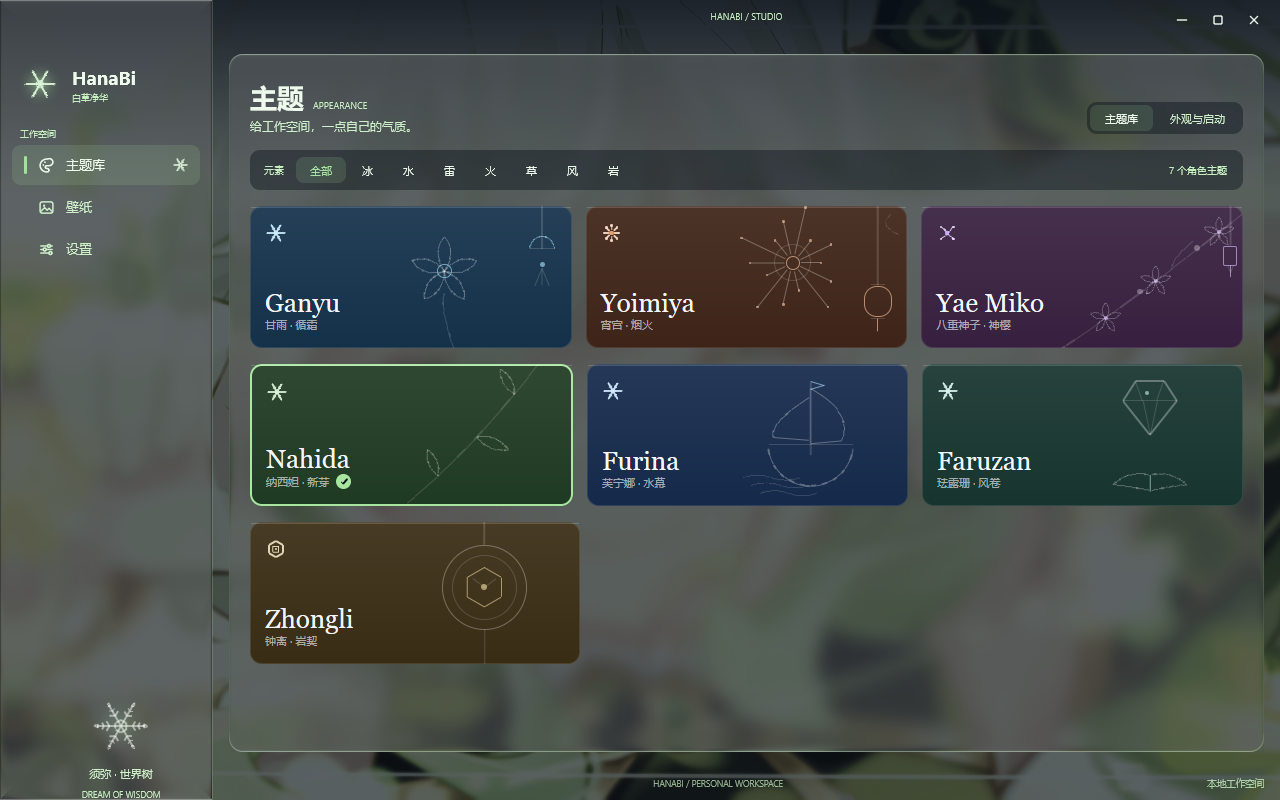
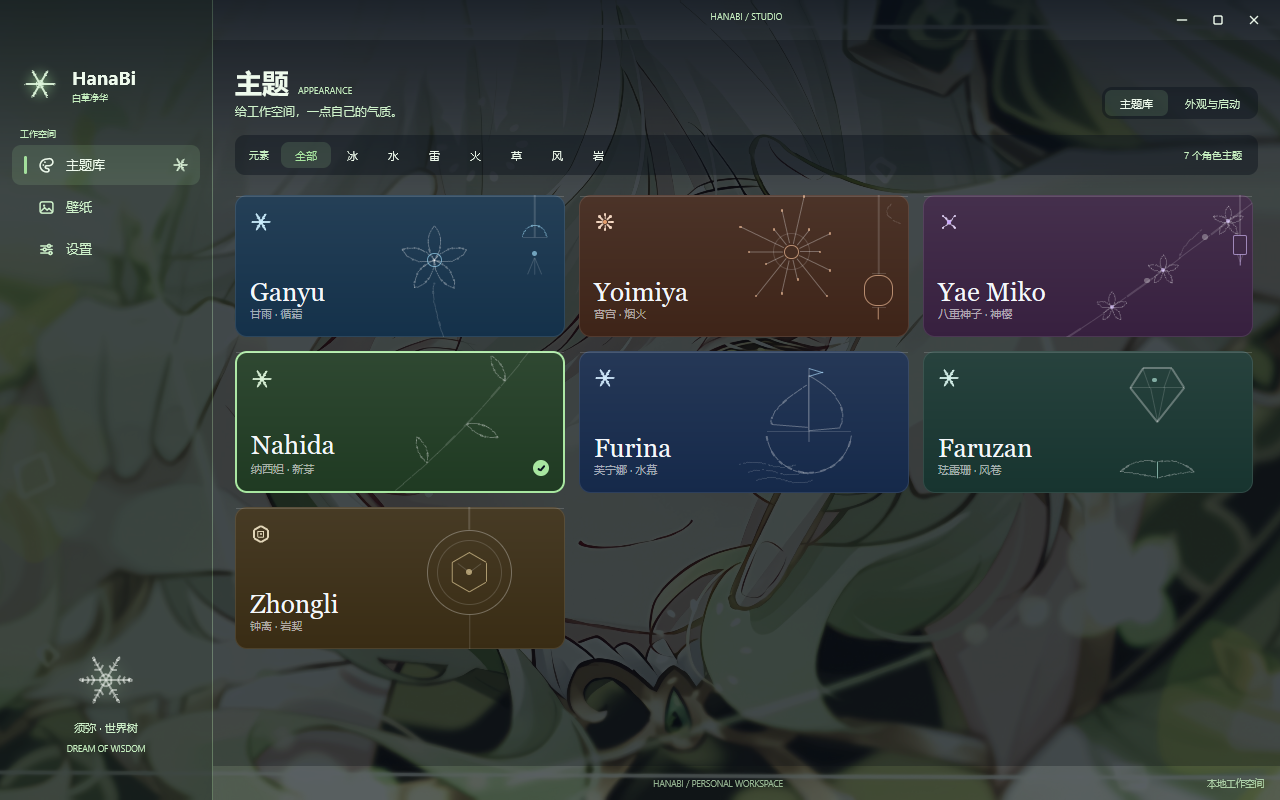
甘雨主题第四轮（对照参考图像素级校准）：
1. 侧栏底部：Padding 槽位写错（46 在「左」不在「下」），文字贴底且右偏 14px；
   用像素扫描测出真实位置后修正（距底 49px、中心 105/106）。
2. 选中卡片对勾徽章贴卡片最右缘（文字 Grow(1) 顶开）。
3. 主题页只有卡片滚动：标题区与元素筛选条固定，Scroll 只包卡片网格。
4. 去掉内容区整体玻璃面板，恢复轻暗罩（内容直接浮在壁纸上）。
5. 侧栏去掉 glass 材质（其边缘高光造成上下白边），改为令牌色半透明纯底。

diff --git a/internal/view/app.go b/internal/view/app.go
@@ -5,7 +5,6 @@ import (
 	"time"
 
 	"github.com/egoist/mygo"
-	"github.com/egoist/mygo/plugins/glass"
 	"github.com/egoist/mygo/ui"
 
 	"bestuav-hanabi/internal/assets"
@@ -158,10 +157,9 @@ func (a *App) elementMarkSoft(c *ui.Context, size float32) {
 
 // sidebar 左侧栏：品牌（元素标识 + 名称）→ 分组标签 → 菜单 → 底部当前角色。
 func (a *App) sidebar(c *ui.Context) {
-	col := ui.Column(c).Width(212)
-	// Regular 在暗模式下会压暗底下的壁纸；Clear 太透，亮壁纸（钟离、纳西妲）
-	// 上菜单文字会糊。Clarity 0.15 保留一点通透，但足够托住文字。
-	col.Material(glass.Glass{Style: glass.Regular, Clarity: 0.15})
+	// 不用 glass 材质：它会画边缘高光，侧栏上下看起来像有白色边框。
+	// 参考图就是一块纯净的半透明深色，直接用令牌色铺底。
+	col := ui.Column(c).Width(212).Background(a.tok.Sidebar)
 	col.Children(func() {
 		// 品牌区不贴顶：参考图里图标顶部约占窗口高 8.5%，按 800 高折算约 64px。
 		ui.Row(c).Padding(64, 12, 10, 20).Gap(12).AlignItems(ui.Center).Children(func() {
@@ -186,7 +184,7 @@ func (a *App) sidebar(c *ui.Context) {
 
 		// 底部：一枚较大的淡色元素标识 + 场景名，整体居中；下缘距窗口底约 6%
 		// （参考图量出来的比例），所以底部留白比菜单侧的 padding 大。
-		ui.Column(c).AlignItems(ui.Center).Gap(8).Padding(0, 16, 0, 46).Children(func() {
+		ui.Column(c).AlignItems(ui.Center).Gap(8).Padding(0, 16, 46, 16).Children(func() {
 			a.elementMarkSoft(c, 64)
 			ui.Text(c, a.char.Scene).FontSize(11).TextColor(a.tok.TextMuted)
 			ui.Text(c, a.char.SceneEN).FontSize(8.5).TextColor(a.tok.TextFaint)
@@ -281,29 +279,25 @@ func (a *App) winButton(c *ui.Context, icon *ui.SVG, tip string, action func()) 
 	})
 }
 
-// content 内容区：一块圆角玻璃面板浮在壁纸上，四周留出壁纸的边缘。
+// content 内容区：按当前页分发。
 //
-// 之前是整片内容区直接压一层暗色——壁纸从头露到尾，标题和筛选条都泡在
-// 图片里。改成面板后壁纸只在四周和缝隙里透出，文字全部落在面板上。
-// 内容套在 Scroll 里：主题超出可视高度时纵向滚动（状态栏才不会被顶出窗口）。
+// 只压一层很淡的暗色托文字，不再包整块面板——参考图里内容是直接浮在
+// 壁纸上的，只有卡片本身是一块块玻璃。
 func (a *App) content(c *ui.Context) {
-	ui.Column(c).Grow(1).Padding(14, 16, 14, 16).Children(func() {
-		ui.Column(c).Grow(1).Radius(14).
-			Material(glass.Glass{Style: glass.Regular, Clarity: 0.12}).
-			Border(1, a.tok.CardStroke).
-			Children(func() {
-				ui.Scroll(c).Grow(1).Children(func() {
-					ui.Column(c).Padding(24, 20).Gap(16).Children(func() {
-						switch a.page {
-						case "library":
-							a.libraryPage(c)
-						default:
-							a.placeholderPage(c)
-						}
-					})
-				})
+	ui.Column(c).Grow(1).Clip().
+		Draw(func(p *ui.Painter, r ui.Rect) {
+			p.Fill(r, ui.RGBA(6, 11, 18, 0.28), 0)
+		}).
+		Children(func() {
+			ui.Column(c).Padding(24, 22).Gap(16).Children(func() {
+				switch a.page {
+				case "library":
+					a.libraryPage(c)
+				default:
+					a.placeholderPage(c)
+				}
 			})
-	})
+		})
 }
 
 // statusbar 内容区底部：中间一行品牌小字，右侧是工作空间状态。

diff --git a/internal/view/library.go b/internal/view/library.go
@@ -12,6 +12,7 @@ import (
 //
 // 页面里没有任何角色名或颜色常量——全部来自 theme.All()。
 func (a *App) libraryPage(c *ui.Context) {
+	// 标题与筛选条固定不动，只有下面的卡片滚动（参考图行为）。
 	a.pageHeader(c)
 	a.elementFilter(c)
 
@@ -23,14 +24,18 @@ func (a *App) libraryPage(c *ui.Context) {
 		}
 	}
 
-	const cols = 3
-	for i := 0; i < len(shown); i += cols {
-		ui.Row(c).Gap(14).AlignItems(ui.Start).Children(func() {
-			for j := i; j < i+cols && j < len(shown); j++ {
-				a.characterCard(c, shown[j])
+	ui.Scroll(c).Grow(1).Children(func() {
+		ui.Column(c).Padding(4, 0, 10, 0).Gap(14).Children(func() {
+			const cols = 3
+			for i := 0; i < len(shown); i += cols {
+				ui.Row(c).Gap(14).AlignItems(ui.Start).Children(func() {
+					for j := i; j < i+cols && j < len(shown); j++ {
+						a.characterCard(c, shown[j])
+					}
+				})
 			}
 		})
-	}
+	})
 }
 
 // pageHeader 标题行：大标题 + 英文小标 + 副标题，右上角是分段控件。
@@ -169,16 +174,16 @@ func (a *App) characterCard(c *ui.Context, ch theme.Character) {
 		ui.Text(c, ch.NameEN).FontSize(26).
 			Font("Georgia, Cambria, 'Times New Roman', serif").
 			TextColor(ui.Hex("#F4F7FA"))
+		// 对勾徽章贴卡片最右边（参考图位置）：文字 Grow(1) 顶开。
 		ui.Row(c).AlignItems(ui.Center).Gap(7).Children(func() {
 			ui.Text(c, ch.NameCN+" · "+ch.Epithet).FontSize(11).
-				TextColor(ui.RGBA(255, 255, 255, 0.60))
-			// 选中卡的右下角对勾徽章（参考图里也有）：元素色圆 + 深色勾。
+				TextColor(ui.RGBA(255, 255, 255, 0.60)).Grow(1)
 			if active {
-				ui.Row(c).Width(15).Height(15).Draw(func(p *ui.Painter, r ui.Rect) {
+				ui.Row(c).Width(16).Height(16).Draw(func(p *ui.Painter, r ui.Rect) {
 					cx, cy := r.X+r.W/2, r.Y+r.H/2
 					circle(p, cx, cy, r.W/2, ch.Tok.Accent)
-					seg(p, cx-3.2, cy+0.2, cx-0.9, cy+2.6, 1.5, ui.Hex("#0A1420"))
-					seg(p, cx-0.9, cy+2.6, cx+3.4, cy-2.4, 1.5, ui.Hex("#0A1420"))
+					seg(p, cx-3.4, cy+0.2, cx-1.0, cy+2.8, 1.6, ui.Hex("#0A1420"))
+					seg(p, cx-1.0, cy+2.8, cx+3.6, cy-2.6, 1.6, ui.Hex("#0A1420"))
 				})
 			}
 		})

diff --git a/README.md b/README.md
@@ -12,7 +12,7 @@
 - **侧栏三段式**：品牌（元素标识 + HanaBi）/ 分组标签 + 菜单（图标 + 文字 + 选中项右侧的元素小图标）/
   底部当前角色大标识 + 名字。品牌图标的位置正是开场标识的停靠点，交接时不跳变
 - **主题页**：大标题 + `APPEARANCE` 小标 + 副标题，右上分段控件，下方元素筛选条
-  （全部 / 冰 / 水 / 雷 / 火 / 草 / 风 / 岩 + 角色数），内容区可纵向滚动；
+  （全部 / 冰 / 水 / 雷 / 火 / 草 / 风 / 岩 + 角色数）；**只有卡片滚动**，标题与筛选条固定；
   卡片为**纯色底 + 右侧专属线稿**（花/樱枝/烟花/叶枝/帆船/棱晶/岩环，见 `internal/view/art.go`），
   英文名用衬线体 + 「中文名·属性」，当前主题带元素色高亮描边；
   状态栏只属于内容区（不通到侧栏），侧栏底部居中
@@ -87,7 +87,9 @@
 16. **内容超出可视高度时必须套 `ui.Scroll`**：Column 的子元素超出后会把后面的兄弟（状态栏）顶出窗口——状态栏"消失"其实就是被挤下去了，用矩形打印（Draw 里 println rect）能直接看到。
 17. **卡片 `Grow(1)` 在不满一行的行里会被拉通栏**：最后一行只有一张卡片时会占满整行宽度，要配 `MaxWidth` 兜住。
 18. **「只在选中时出现的元素」要用透明占位**：导航选中项左侧的竖杠如果只在 active 时才加进子列表，选中项的图标会比其他行右移 3px。始终放一个 `Alpha(0)` 的占位，两种状态宽度一致。
-19. **改资源路径时，写死的路径不会报错、只会静默变空**：把 `ganyu-icon.png` 改名成 `icon.png` 后，`assets.Bitmap` 返回 nil，头像是"消失了"而不是报错。判断这类问题要看布局：`Tester.Find("花火")` 返回的 x 若等于左内边距，说明前面的元素宽度为 0（根本没占位）。
+19. **`Padding` 四值是 CSS 顺序（上右下左），写错槽位会静默失效**：把底部留白 46 写进了「左」槽位，结果文字贴着窗口底、整块内容右偏 14px——两个症状一个根因。用像素扫描测量真实位置（逐行找亮像素）比目测截图可靠得多。
+20. **glass 材质自带边缘高光**：侧栏用 `glass.Regular` 时上下会显出白色边线（材质的边缘光）。参考图是纯净的半透明深色，直接 `Background(令牌色)` 即可。
+21. **改资源路径时，写死的路径不会报错、只会静默变空**：把 `ganyu-icon.png` 改名成 `icon.png` 后，`assets.Bitmap` 返回 nil，头像是"消失了"而不是报错。判断这类问题要看布局：`Tester.Find("花火")` 返回的 x 若等于左内边距，说明前面的元素宽度为 0（根本没占位）。
 
 ## 运行
 
